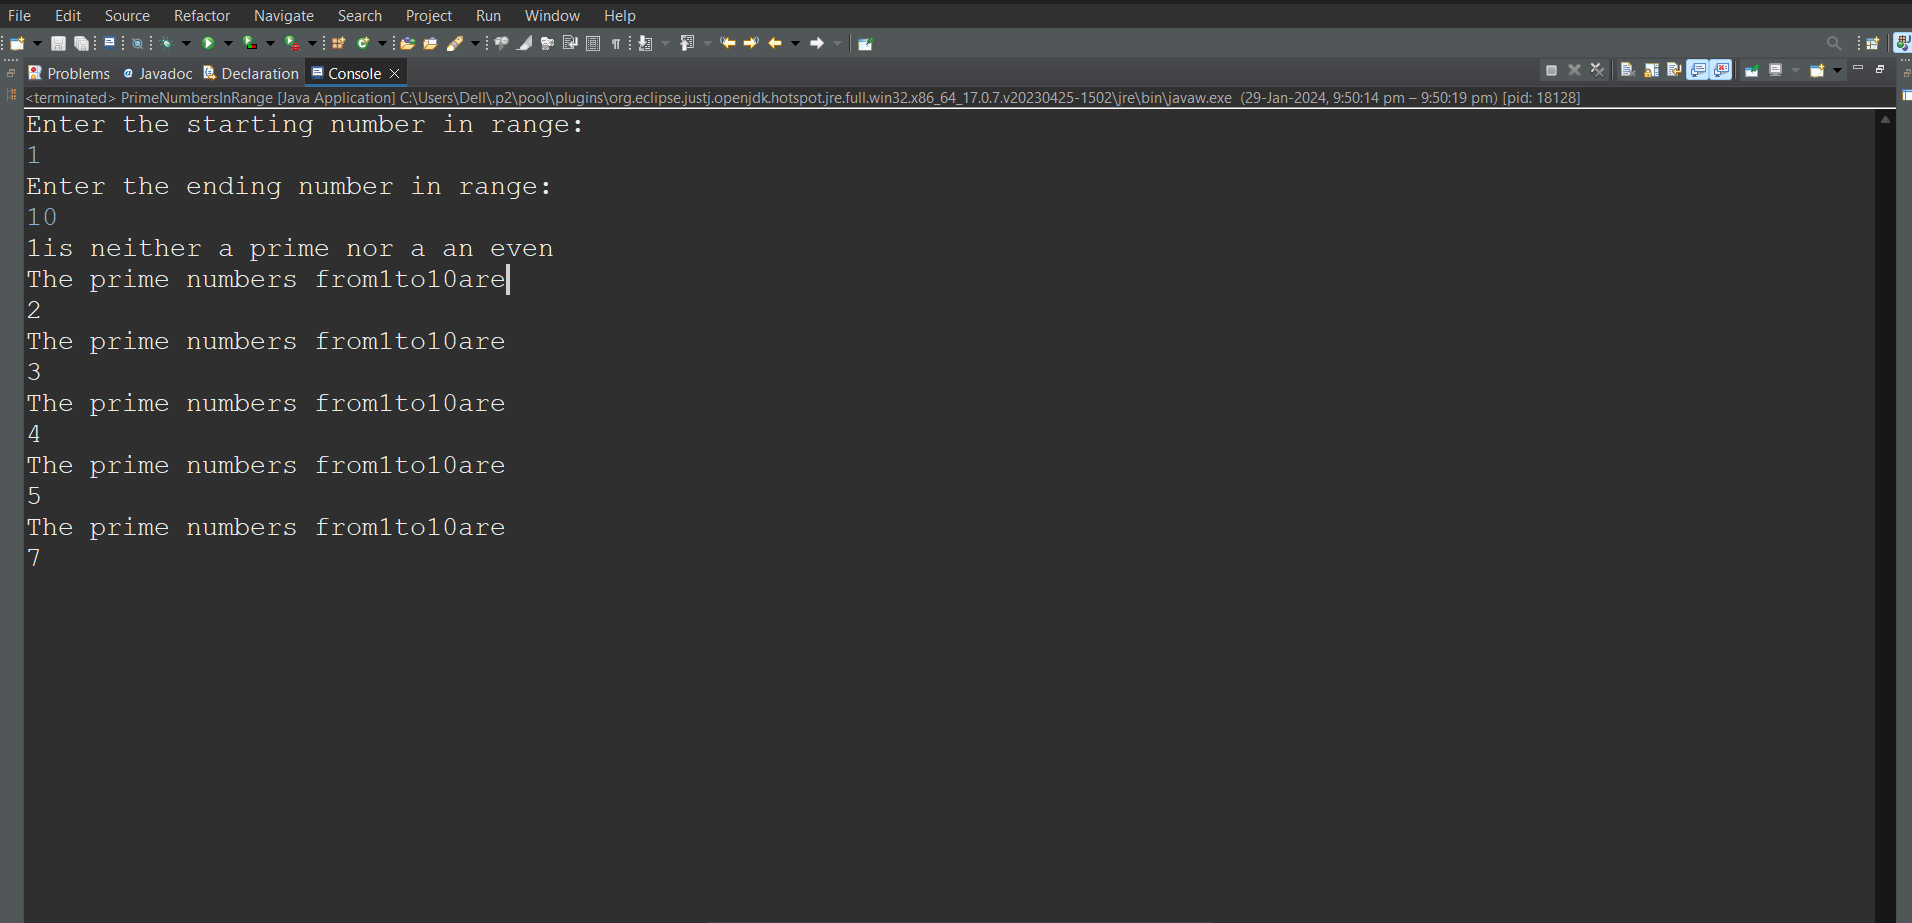
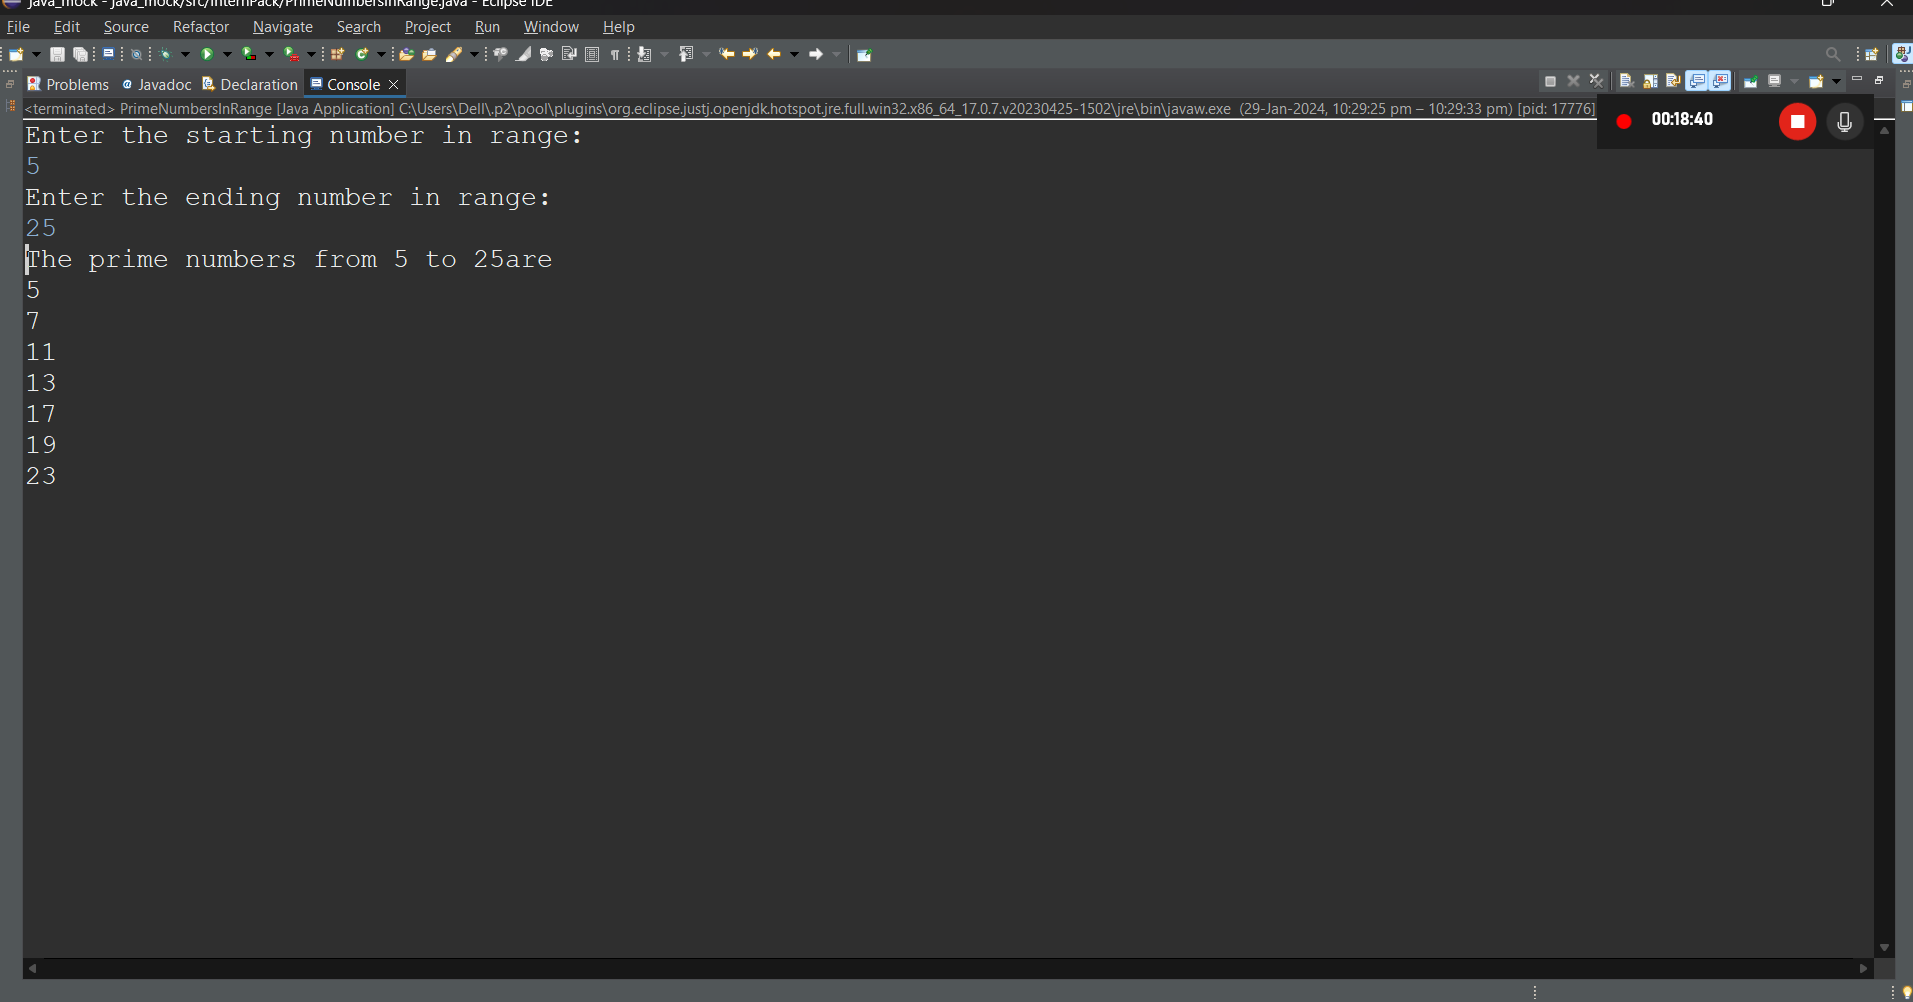
updatedPrimeNumbers

diff --git a/PrimeNumbersInRange.java b/PrimeNumbersInRange.java
@@ -10,10 +10,11 @@ public class PrimeNumbersInRange {
 		int startingNumber=scan.nextInt();
 		System.out.println("Enter the ending number in range:");
 		int endingNumber=scan.nextInt();
+		System.out.println("The prime numbers from "+startingNumber+" to "+endingNumber+"are");
 		for(int i=startingNumber;i<=endingNumber;i++) {
 			int count=0;
 			if(i==1) {
-				System.out.println(i+"is neither a prime nor a an even");
+				System.out.println(i+" is neither a prime nor a composite");
 				continue;
 			}
 			for(int j=2;j<i/2;j++) {
@@ -22,7 +23,7 @@ public class PrimeNumbersInRange {
 				}
 			}
 			if(count==0) {
-				System.out.println("The prime numbers from"+startingNumber+"to"+endingNumber+"are");
+				
 				System.out.println(i);
 			}
 		}
